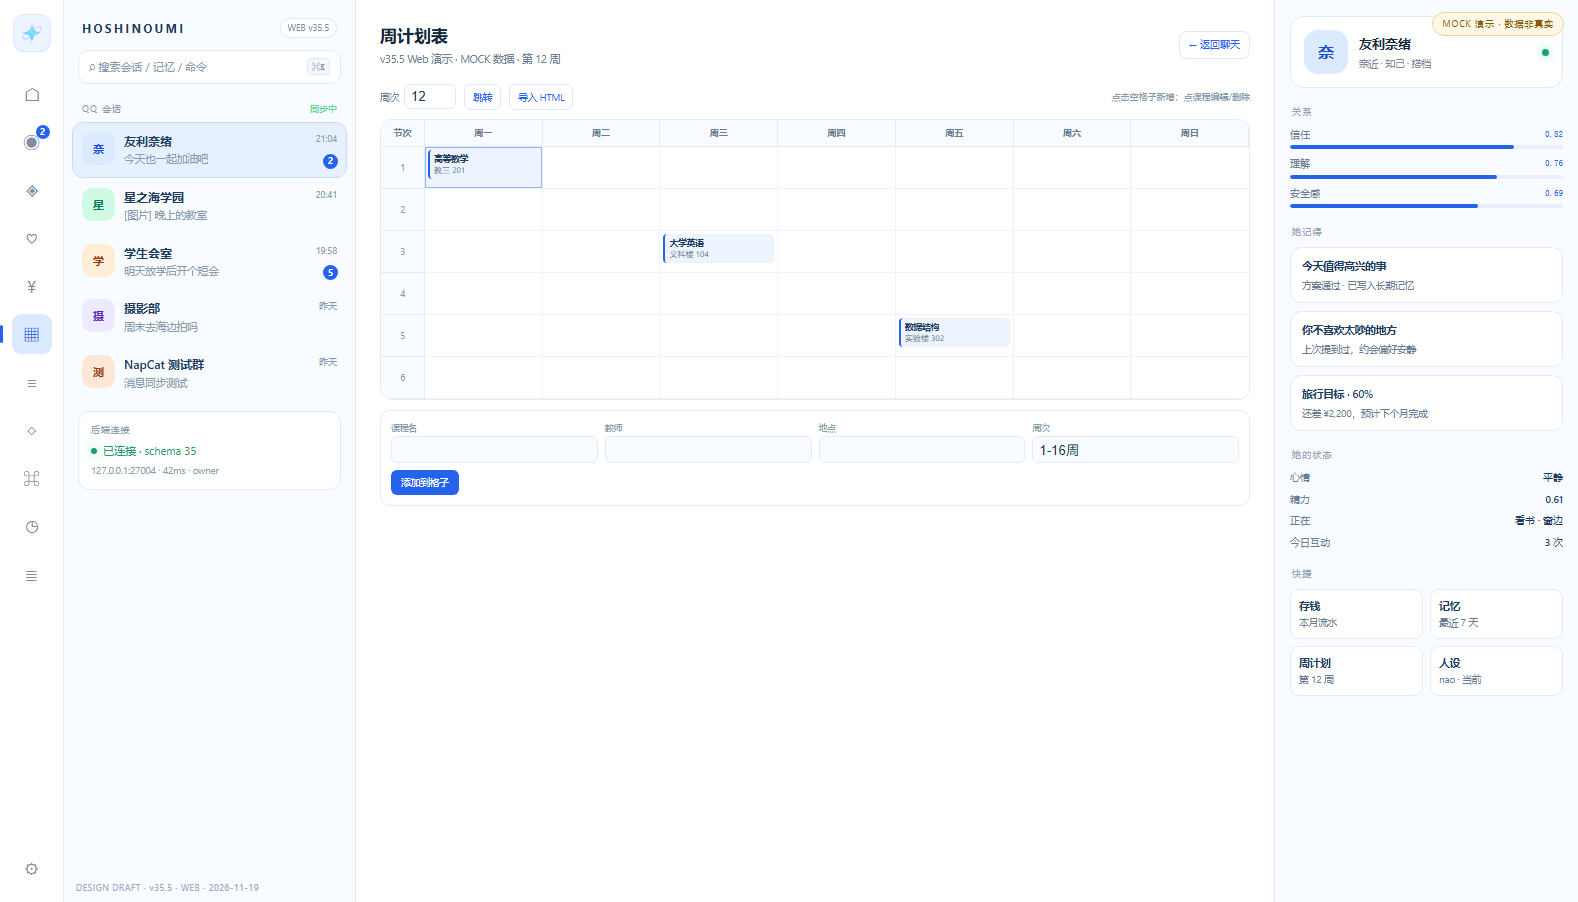
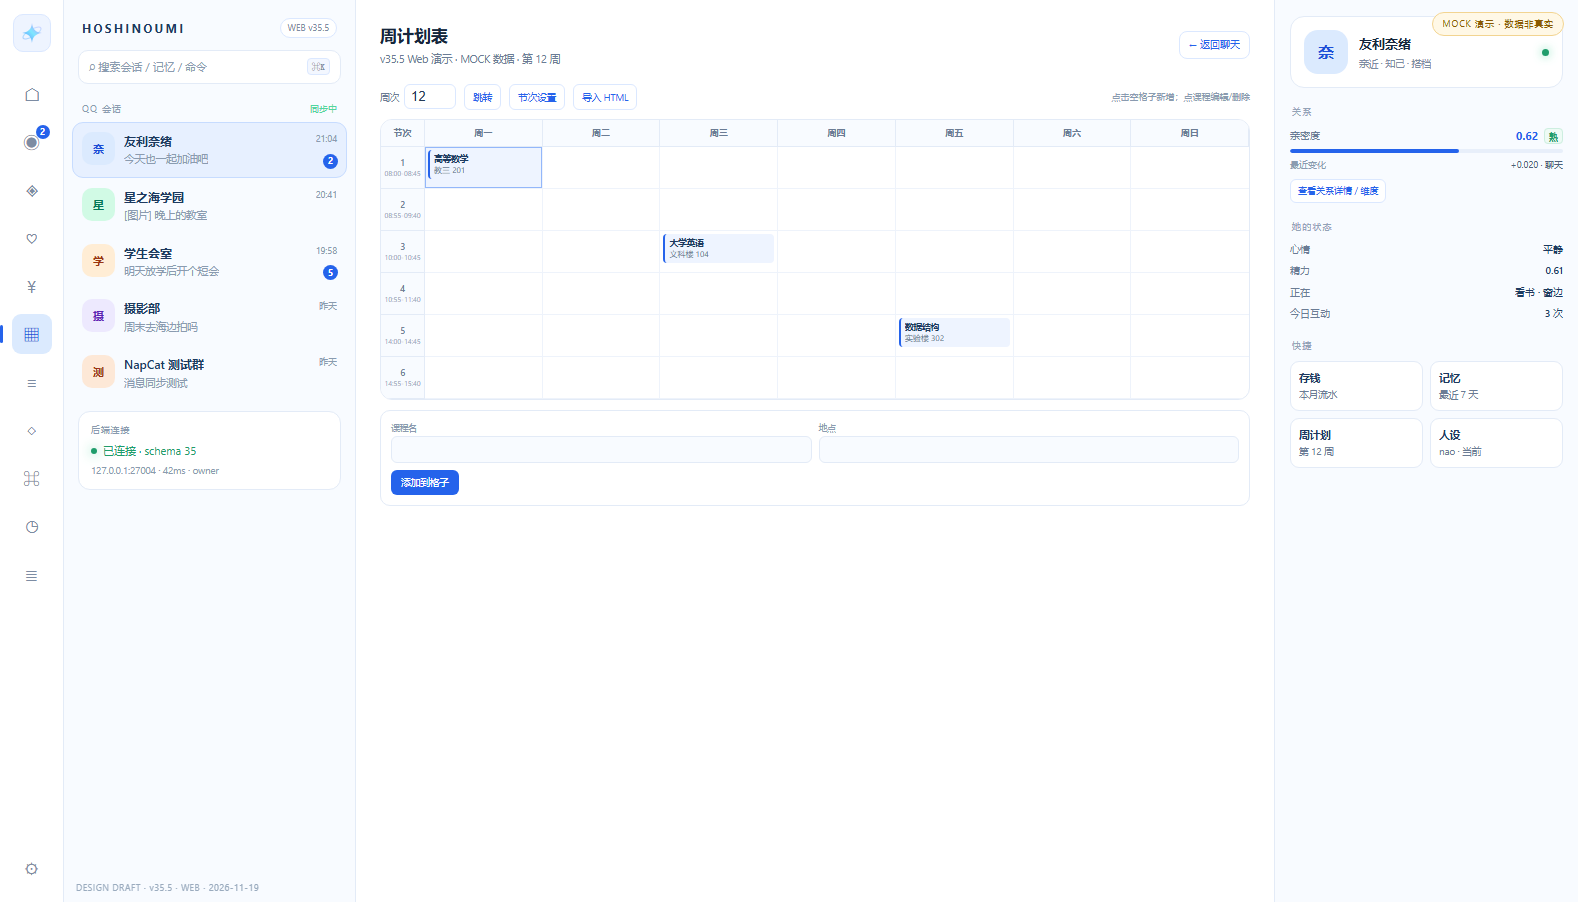
style(v35.5): 周计划表单只留课程名和地点

diff --git a/docs/design/v35/web/demo.js b/docs/design/v35/web/demo.js
@@ -228,7 +228,7 @@
     .wpe-row .wpe-del{border:1px solid #f3c7d2;border-radius:5px;background:#fff;color:#c0264a;font-size:8.5px;padding:3px 5px;cursor:pointer}
     .wpe-actions{display:flex;align-items:center;gap:7px;margin-top:6px}
     .wpe-actions button{border:0;border-radius:5px;background:#2563eb;color:#fff;font-size:9px;padding:4px 8px;cursor:pointer}.wpe-actions .msg{font-size:9px;color:#8a9bb0}
-    .week-form{display:grid;grid-template-columns:1fr 1fr 1fr 1fr;gap:7px;margin-top:10px;border:1px solid #e3ebf7;border-radius:10px;background:#fff;padding:10px}
+    .week-form{display:grid;grid-template-columns:1fr 1fr;gap:7px;margin-top:10px;border:1px solid #e3ebf7;border-radius:10px;background:#fff;padding:10px}
     .week-form label{display:block;font-size:8.5px;color:#8a9bb0;margin-bottom:2px}
     .week-form input,.week-form select{border:1px solid #e3ebf7;border-radius:6px;background:#f8fbff;color:#243b55;font:9.5px inherit;outline:0;padding:5px 6px;width:100%}
     .week-form .full{grid-column:1/-1;display:flex;align-items:center;gap:7px}
@@ -602,7 +602,7 @@
         });
         html += '</div></div>';
         const c = editIdx >= 0 ? W.courses[editIdx] : null;
-        html += '<div class="week-form"><div><label>课程名</label><input id="wkName" value="' + esc(c ? c.name : '') + '"></div><div><label>教师</label><input id="wkTeacher" value="' + esc(c ? c.teacher : '') + '"></div><div><label>地点</label><input id="wkLoc" value="' + esc(c ? c.loc : '') + '"></div><div><label>周次</label><input id="wkWeeks" value="' + esc(c ? (c.weeks || '1-16周') : '1-16周') + '"></div><div class="full"><button id="wkSave">' + (editIdx >= 0 ? '保存修改' : '添加到格子') + '</button>' + (editIdx >= 0 ? '<button class="del" id="wkDel">删除课程</button>' : '') + '<span class="msg" id="wkFormMsg"></span></div></div>';
+        html += '<div class="week-form"><div><label>课程名</label><input id="wkName" value="' + esc(c ? c.name : '') + '"></div><div><label>地点</label><input id="wkLoc" value="' + esc(c ? c.loc : '') + '"></div><div class="full"><button id="wkSave">' + (editIdx >= 0 ? '保存修改' : '添加到格子') + '</button>' + (editIdx >= 0 ? '<button class="del" id="wkDel">删除课程</button>' : '') + '<span class="msg" id="wkFormMsg"></span></div></div>';
         pageView.innerHTML = html;
         document.getElementById('backChat').addEventListener('click', () => showChat());
         document.getElementById('wkGo').addEventListener('click', () => {
@@ -635,12 +635,10 @@
         }));
         document.getElementById('wkSave').addEventListener('click', () => {
           const name = document.getElementById('wkName').value.trim();
-          const teacher = document.getElementById('wkTeacher').value.trim();
           const loc = document.getElementById('wkLoc').value.trim();
-          const weeks = document.getElementById('wkWeeks').value.trim() || '1-16周';
           if (!name) { document.getElementById('wkFormMsg').textContent = '先填课程名'; return; }
-          if (editIdx >= 0) W.courses[editIdx] = { ...W.courses[editIdx], name, teacher, loc, weeks };
-          else W.courses.push({ day: sel.day, period: sel.period, name, teacher, loc, weeks });
+          if (editIdx >= 0) W.courses[editIdx] = { ...W.courses[editIdx], name, loc };
+          else W.courses.push({ day: sel.day, period: sel.period, name, loc });
           editIdx = -1; renderWeekly(); toast('周计划已更新（MOCK）');
         });
         const del = document.getElementById('wkDel');

diff --git a/docs/design/v35/web/hoshinoumi-web-v35.5.html b/docs/design/v35/web/hoshinoumi-web-v35.5.html
@@ -405,6 +405,6 @@ button{color:inherit}
   </aside>
 </div>
 <div class="tagdraft">DESIGN DRAFT · v35.5 · WEB · 2026-11-19</div>
-<script src="demo.js?v=35.5.28"></script>
+<script src="demo.js?v=35.5.29"></script>
 </body>
 </html>
